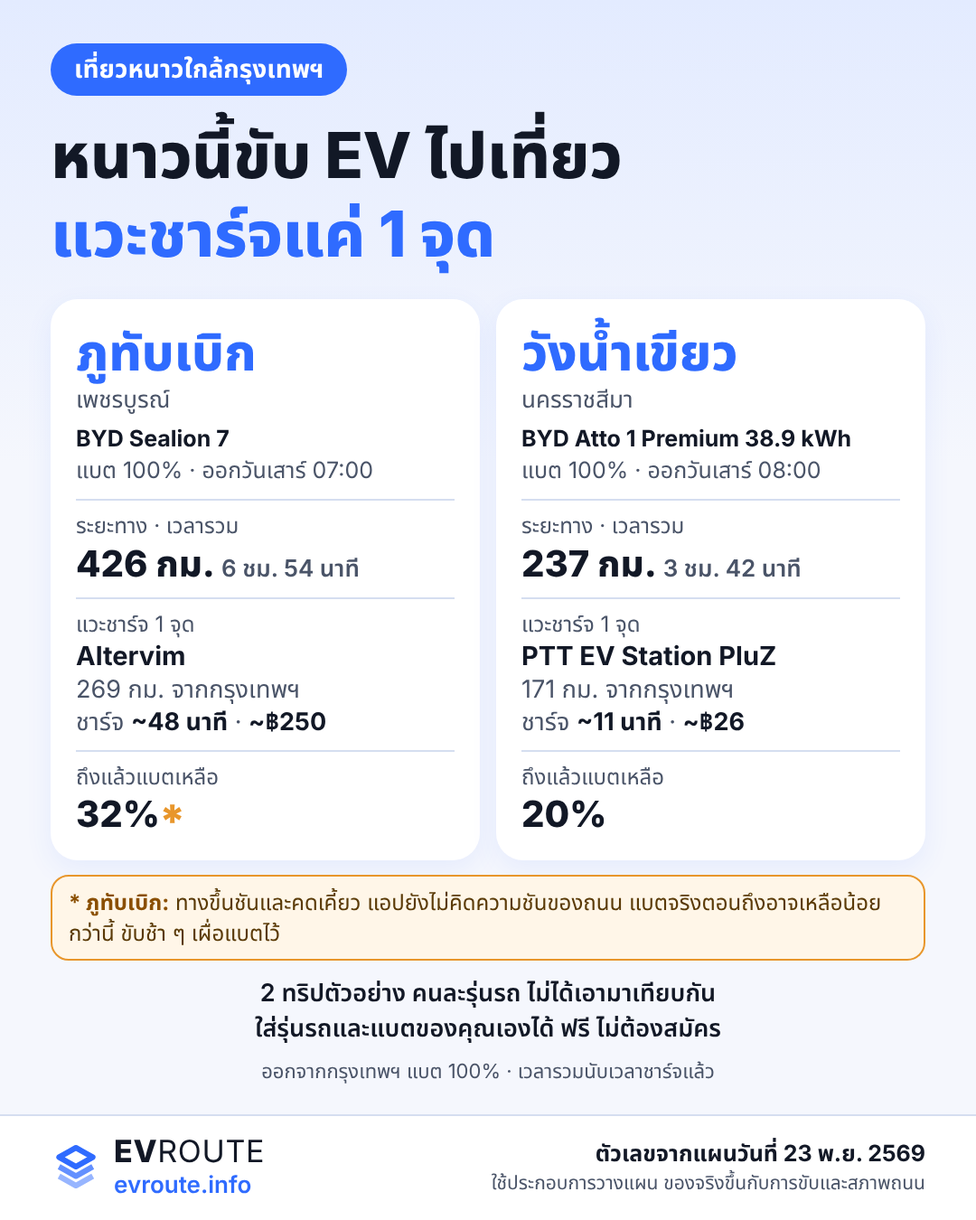
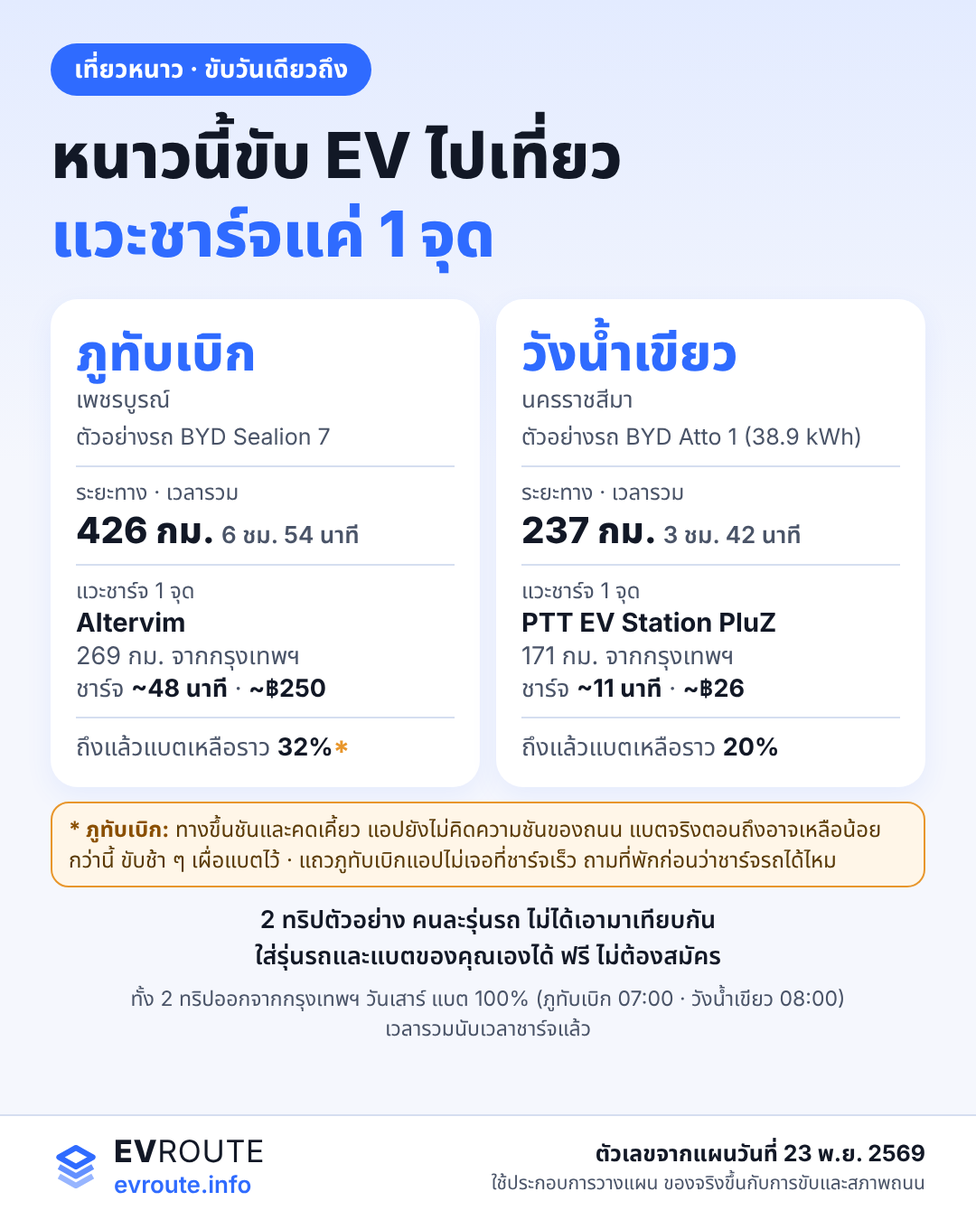
Long-weekend campaign: images fixed after fact-check (G1, G2, G2-square); A1-cold wording matches
Claude-Session: https://claude.ai/code/session_01LGo3dKAudiWU9QkRQhtUip

Changed region(s): [[0.0611, 0.3422, 0.9472, 0.9022], [0.1833, 0.0311, 0.3972, 0.0933], [0.1222, 0.8089, 0.1528, 0.84]]

diff --git a/marketing/2026-12-longweekend/images/src/G2-cold-pair.html b/marketing/2026-12-longweekend/images/src/G2-cold-pair.html
@@ -1,31 +1,37 @@
 <!doctype html><html lang="th"><head><meta charset="utf-8"><title>G2 · R2 ภูทับเบิก + R3 วังน้ำเขียว</title>
-<link rel="stylesheet" href="base.css"><script src="base.js" defer></script></head><body>
-<!-- ตัวเลขทั้งหมดจาก routes.md · R2 (14:59) R3 (15:00) วางแผน 23 พ.ย. 2569 · ห้ามทำให้ดูเหมือนเทียบรถ 2 คัน · R3 ห้ามพูดว่าปลายทางมี/ไม่มีที่ชาร์จเร็ว -->
+<link rel="stylesheet" href="base.css">
+<style>/* แก้ตาม check.md แถว 24: ปลายทางเป็นตัวเด่น · ชื่อรถเป็นบรรทัดสีเทา "ตัวอย่างรถ …" · แบตตอนถึงขนาดเท่าแถวชาร์จ */
+.trip .car{font-size:25px;line-height:1.4;color:var(--muted);margin-top:8px;white-space:nowrap}
+.trip .car b{color:var(--muted);font-weight:400}
+.trip .sm.bat{padding-top:2px}
+</style><script src="base.js" defer></script></head><body>
+<!-- ตัวเลขทั้งหมดจาก routes.md · R2 (14:59) R3 (15:00) วางแผน 23 พ.ย. 2569 · ห้ามทำให้ดูเหมือนเทียบรถ 2 คัน · R3 ห้ามพูดว่าปลายทางมี/ไม่มีที่ชาร์จเร็ว
+     ภาพนี้ใช้กับโพสต์เพจ P2 (ไม่ใช่โฆษณา) จึงเขียนชื่อเครือข่ายตามที่แอปแสดงได้ (check.md คำตัดสินข้อ 1) · ภาพโฆษณาใช้ G2-cold-pair-square ที่ไม่มีชื่อเครือข่าย -->
 <div class="canvas">
-  <div class="pill">เที่ยวหนาวใกล้กรุงเทพฯ</div>
+  <div class="pill">เที่ยวหนาว · ขับวันเดียวถึง</div>
   <h1>หนาวนี้ขับ EV ไปเที่ยว<br><span class="accent">แวะชาร์จแค่ 1 จุด</span></h1>
   <div class="pair" style="margin-top:28px">
     <div class="trip">
       <div class="dest">ภูทับเบิก</div>
       <div class="prov">เพชรบูรณ์</div>
-      <div class="car"><b>BYD Sealion 7</b><br>แบต 100% · ออกวันเสาร์ 07:00</div>
+      <div class="car">ตัวอย่างรถ BYD Sealion 7</div>
       <div class="row"><div class="k">ระยะทาง · เวลารวม</div><div class="v">426 กม. <small>6 ชม. 54 นาที</small></div></div>
       <div class="row"><div class="k">แวะชาร์จ 1 จุด</div><div class="st">Altervim</div><div class="sm">269 กม. จากกรุงเทพฯ</div><div class="sm">ชาร์จ <b>~48 นาที</b> · <b>~฿250</b></div></div>
-      <div class="row"><div class="k">ถึงแล้วแบตเหลือ</div><div class="v">32%<span style="color:var(--orange)">*</span></div></div>
+      <div class="row"><div class="sm bat">ถึงแล้วแบตเหลือราว <b>32%</b><b style="color:var(--orange)">*</b></div></div>
     </div>
     <div class="trip">
       <div class="dest">วังน้ำเขียว</div>
       <div class="prov">นครราชสีมา</div>
-      <div class="car"><b class="nw">BYD Atto 1 Premium 38.9 kWh</b><br>แบต 100% · ออกวันเสาร์ 08:00</div>
+      <div class="car">ตัวอย่างรถ BYD Atto 1 (38.9 kWh)</div>
       <div class="row"><div class="k">ระยะทาง · เวลารวม</div><div class="v">237 กม. <small>3 ชม. 42 นาที</small></div></div>
       <div class="row"><div class="k">แวะชาร์จ 1 จุด</div><div class="st">PTT EV Station PluZ</div><div class="sm">171 กม. จากกรุงเทพฯ</div><div class="sm">ชาร์จ <b>~11 นาที</b> · <b>~฿26</b></div></div>
-      <div class="row"><div class="k">ถึงแล้วแบตเหลือ</div><div class="v">20%</div></div>
+      <div class="row"><div class="sm bat">ถึงแล้วแบตเหลือราว <b>20%</b></div></div>
     </div>
   </div>
 
-  <div class="warn" style="margin-top:16px"><b>* ภูทับเบิก:</b> ทางขึ้นชันและคดเคี้ยว แอปยังไม่คิดความชันของถนน แบตจริงตอนถึงอาจเหลือน้อยกว่านี้ ขับช้า ๆ เผื่อแบตไว้</div>
+  <div class="warn" style="margin-top:16px"><b>* ภูทับเบิก:</b> ทางขึ้นชันและคดเคี้ยว แอปยังไม่คิดความชันของถนน แบตจริงตอนถึงอาจเหลือน้อยกว่านี้ ขับช้า ๆ เผื่อแบตไว้ · แถวภูทับเบิกแอปไม่เจอที่ชาร์จเร็ว ถามที่พักก่อนว่าชาร์จรถได้ไหม</div>
   <p class="note">2 ทริปตัวอย่าง คนละรุ่นรถ ไม่ได้เอามาเทียบกัน<br>ใส่รุ่นรถและแบตของคุณเองได้ ฟรี ไม่ต้องสมัคร</p>
-  <p class="fine" style="text-align:center">ออกจากกรุงเทพฯ แบต 100% · เวลารวมนับเวลาชาร์จแล้ว</p>
+  <p class="fine" style="text-align:center;font-size:23px">ทั้ง 2 ทริปออกจากกรุงเทพฯ วันเสาร์ แบต 100% <span class="nw">(ภูทับเบิก 07:00 · วังน้ำเขียว 08:00)</span><br>เวลารวมนับเวลาชาร์จแล้ว</p>
 
   <footer class="foot">
     <div class="brand">

diff --git a/marketing/2026-12-longweekend/images/src/G2-cold-pair-square.html b/marketing/2026-12-longweekend/images/src/G2-cold-pair-square.html
@@ -2,29 +2,33 @@
 <link rel="stylesheet" href="base.css">
 <style>/* 1080x1080: tighter */
 .sq .trip{padding:18px 28px 18px}.sq .trip .dest{font-size:50px}.sq .trip .row{padding:9px 0}.sq .pair{margin-top:18px}
+/* แก้ตาม check.md แถว 25: ปลายทางเป็นตัวเด่น · ชื่อรถเป็นบรรทัดสีเทา "ตัวอย่างรถ …" · แบตตอนถึงขนาดเท่าแถวชาร์จ */
+.sq .trip .car{font-size:25px;line-height:1.4;color:var(--muted);margin-top:4px;padding-bottom:12px;white-space:nowrap}
 </style><script src="base.js" defer></script></head><body>
-<!-- ตัวเลขทั้งหมดจาก routes.md · R2 R3 วางแผน 23 พ.ย. 2569 · ใช้กับ A1-cold (fb-ads-dec-cold) -->
+<!-- ตัวเลขทั้งหมดจาก routes.md · R2 R3 วางแผน 23 พ.ย. 2569 · ใช้กับ A1-cold (fb-ads-dec-cold)
+     ภาพโฆษณา: ห้ามมีชื่อเครือข่าย (check.md คำตัดสินข้อ 1 · plan.md คำตัดสินหลังด่านตรวจรอบ 1 ข้อ 3) ใช้ "จุดที่ N · กม. X" แทน จนกว่า PEA VOLTA และ OR จะตอบ -->
 <div class="canvas sq">
-  <div class="pill">เที่ยวหนาวใกล้กรุงเทพฯ · 2 ทริปตัวอย่าง</div>
+  <div class="pill">เที่ยวหนาว · ขับวันเดียวถึง · 2 ทริปตัวอย่าง</div>
   <h1 style="font-size:60px;margin-top:16px">หนาวนี้ขับ EV ไปเที่ยว<br><span class="accent">แวะชาร์จแค่ 1 จุด</span></h1>
   <div class="pair">
     <div class="trip">
       <div class="dest">ภูทับเบิก</div>
-      <div class="car"><b>BYD Sealion 7</b><br>แบต 100% · ออกวันเสาร์ 07:00</div>
+      <div class="car">ตัวอย่างรถ BYD Sealion 7</div>
       <div class="row"><div class="k">ระยะทาง · เวลารวม</div><div class="v">426 กม. <small>6 ชม. 54 นาที</small></div></div>
-      <div class="row"><div class="k">แวะชาร์จ 1 จุด</div><div class="st">Altervim</div><div class="sm">269 กม. จากกรุงเทพฯ</div><div class="sm">ชาร์จ <b>~48 นาที</b> · <b>~฿250</b></div></div>
-      <div class="row"><div class="k">ถึงแล้วแบตเหลือ</div><div class="v">32%<span style="color:var(--orange)">*</span></div></div>
+      <div class="row"><div class="k">แวะชาร์จ 1 จุด</div><div class="st">จุดที่ 1 · กม. 269</div><div class="sm">นับจากกรุงเทพฯ</div><div class="sm">ชาร์จ <b>~48 นาที</b> · <b>~฿250</b></div></div>
+      <div class="row"><div class="sm">ถึงแล้วแบตเหลือราว <b>32%</b><b style="color:var(--orange)">*</b></div></div>
     </div>
     <div class="trip">
       <div class="dest">วังน้ำเขียว</div>
-      <div class="car"><b class="nw">BYD Atto 1 Premium 38.9 kWh</b><br>แบต 100% · ออกวันเสาร์ 08:00</div>
+      <div class="car">ตัวอย่างรถ BYD Atto 1 (38.9 kWh)</div>
       <div class="row"><div class="k">ระยะทาง · เวลารวม</div><div class="v">237 กม. <small>3 ชม. 42 นาที</small></div></div>
-      <div class="row"><div class="k">แวะชาร์จ 1 จุด</div><div class="st">PTT EV Station PluZ</div><div class="sm">171 กม. จากกรุงเทพฯ</div><div class="sm">ชาร์จ <b>~11 นาที</b> · <b>~฿26</b></div></div>
-      <div class="row"><div class="k">ถึงแล้วแบตเหลือ</div><div class="v">20%</div></div>
+      <div class="row"><div class="k">แวะชาร์จ 1 จุด</div><div class="st">จุดที่ 1 · กม. 171</div><div class="sm">นับจากกรุงเทพฯ</div><div class="sm">ชาร์จ <b>~11 นาที</b> · <b>~฿26</b></div></div>
+      <div class="row"><div class="sm">ถึงแล้วแบตเหลือราว <b>20%</b></div></div>
     </div>
   </div>
 
-  <div class="warn" style="margin-top:14px;font-size:23px"><b>* ภูทับเบิก:</b> ทางขึ้นชัน แอปยังไม่คิดความชัน แบตจริงอาจเหลือน้อยกว่านี้ · 2 ทริปตัวอย่าง คนละรุ่นรถ ไม่ได้เทียบกัน</div>
+  <div class="warn" style="margin-top:14px;font-size:23px"><b>* ภูทับเบิก:</b> ทางขึ้นชัน แอปยังไม่คิดความชัน แบตจริงอาจเหลือน้อยกว่านี้<br>แถวภูทับเบิกแอปไม่เจอที่ชาร์จเร็ว ถามที่พักก่อน</div>
+  <p class="fine" style="text-align:center;margin-top:8px">ออกจากกรุงเทพฯ วันเสาร์ แบต 100% <span class="nw">(ภูทับเบิก 07:00 · วังน้ำเขียว 08:00)</span> · คนละรุ่นรถ ไม่ได้เทียบกัน</p>
 
   <footer class="foot">
     <div class="brand">

diff --git a/marketing/2026-12-longweekend/images/src/G1-nan.html b/marketing/2026-12-longweekend/images/src/G1-nan.html
@@ -1,6 +1,11 @@
 <!doctype html><html lang="th"><head><meta charset="utf-8"><title>G1 · R1 น่าน แวะชาร์จ 4 จุด (P1)</title>
-<link rel="stylesheet" href="base.css"><script src="base.js" defer></script></head><body>
-<!-- ตัวเลขทั้งหมดจาก routes.md · R1 · วางแผน 23 พ.ย. 2569 14:58 · R1 ไม่มีจุดมื้อกลางวัน (มีแค่ป้ายมื้อเช้าที่จุด 1) -->
+<link rel="stylesheet" href="base.css">
+<style>/* distance-from-Bangkok column, right side of each stop */
+.route .kmr{float:right;margin-left:16px;font-weight:700;color:var(--ink);white-space:nowrap}
+.route .kmr.h{font-size:25px;font-weight:600;color:var(--muted);padding-top:3px}
+</style><script src="base.js" defer></script></head><body>
+<!-- ตัวเลขทั้งหมดจาก routes.md · R1 · วางแผน 23 พ.ย. 2569 14:58 · R1 ไม่มีจุดมื้อกลางวัน (มีแค่ป้ายมื้อเช้าที่จุด 1)
+     แก้ตาม check.md แถว 22: ระยะจากกรุงเทพฯ ย้ายไปคอลัมน์ขวา (146 · 261 · 387 · 553 · 668) "(ทล.11 กม.228)" เป็นส่วนหนึ่งของชื่อสถานีตามที่แอปแสดง ไม่ใช่ระยะ -->
 <div class="canvas">
   <div class="pill">เที่ยวหนาว · ต้นเดือนธันวา</div>
   <h1 style="font-size:66px">ขับ EV ไปน่าน <span class="accent">แวะชาร์จ 4 จุด</span></h1>
@@ -13,12 +18,12 @@
 
   <div class="card" style="margin-top:18px">
     <ol class="route">
-      <li class="start"><div class="dot">A</div><div><div class="nm">กรุงเทพฯ <span class="km">· MG4 Electric (51 kWh)</span></div><div class="meta">ออก<b>วันเสาร์ 06:00</b> · แบต <b>100%</b></div></div></li>
-      <li><div class="dot">1</div><div><div class="nm">PTT EV Station PluZ <span class="km">(146 กม. จากกรุงเทพฯ)</span></div><div class="meta">ชาร์จ <b>~19 นาที</b> · <b>~฿65</b> <span class="badge soft">🍜 มื้อเช้า</span></div></div></li>
-      <li><div class="dot">2</div><div><div class="nm">EleXA <span class="km">(261 กม. จากกรุงเทพฯ)</span></div><div class="meta">ชาร์จ <b>~37 นาที</b> · <b>~฿194</b></div></div></li>
-      <li><div class="dot">3</div><div><div class="nm">PEA VOLTA บางจาก เมืองพิษณุโลก <span class="nw">(ทล.11 กม.228)</span></div><div class="meta">ชาร์จ <b>~50 นาที</b> · <b>~฿193</b></div></div></li>
-      <li><div class="dot">4</div><div><div class="nm">Altervim <span class="km">(553 กม. จากกรุงเทพฯ)</span></div><div class="meta">ชาร์จ <b>~32 นาที</b> · <b>~฿169</b> · ห่างเส้นทาง 1.8 กม.</div></div></li>
-      <li class="end"><div class="dot">B</div><div><div class="nm">ข่วงเมืองน่าน</div><div class="meta">ถึง <b>16:51</b> · แบตเหลือ <b class="g">21%</b></div></div></li>
+      <li class="start"><div class="dot">A</div><div><div class="nm">กรุงเทพฯ <span class="km">· MG4 Electric (51 kWh)</span></div><div class="meta"><span class="kmr h">ระยะจากกรุงเทพฯ</span>ออก<b>วันเสาร์ 06:00</b> · แบต <b>100%</b></div></div></li>
+      <li><div class="dot">1</div><div><div class="nm">PTT EV Station PluZ</div><div class="meta"><span class="kmr">146 กม.</span>ชาร์จ <b>~19 นาที</b> · <b>~฿65</b> <span class="badge soft">🍜 มื้อเช้า</span></div></div></li>
+      <li><div class="dot">2</div><div><div class="nm">EleXA</div><div class="meta"><span class="kmr">261 กม.</span>ชาร์จ <b>~37 นาที</b> · <b>~฿194</b></div></div></li>
+      <li><div class="dot">3</div><div><div class="nm">PEA VOLTA บางจาก เมืองพิษณุโลก <span class="nw">(ทล.11 กม.228)</span></div><div class="meta"><span class="kmr">387 กม.</span>ชาร์จ <b>~50 นาที</b> · <b>~฿193</b></div></div></li>
+      <li><div class="dot">4</div><div><div class="nm">Altervim</div><div class="meta"><span class="kmr">553 กม.</span>ชาร์จ <b>~32 นาที</b> · <b>~฿169</b> · ห่างเส้นทาง 1.8 กม.</div></div></li>
+      <li class="end"><div class="dot">B</div><div><div class="nm">ข่วงเมืองน่าน</div><div class="meta"><span class="kmr">668 กม.</span>ถึง <b>16:51</b> · แบตเหลือ <b class="g">21%</b></div></div></li>
     </ol>
   </div>
 

diff --git a/marketing/2026-12-longweekend/scripts.md b/marketing/2026-12-longweekend/scripts.md
@@ -9,11 +9,11 @@
 
 | คลิป | เรื่อง | เส้นทาง | ความยาว | โพสต์ (ตาม plan.md) | ลิงก์ |
 |---|---|---|---|---|---|
-| **T1** | "ไม่อดตาย" กด อยากแวะ แล้วได้จุดชาร์จตรงมื้อเที่ยง | R4 กรุงเทพฯ → อุบลฯ (ขาไป) | ~27 วิ | พ. 2 ธ.ค. 19:30 TikTok (+Reels) | bio `?ref=tiktok-dec` · IG bio `?ref=ig-dec` |
+| **T1** | "ไม่อดตาย" กด อยากแวะ แล้วได้จุดชาร์จตรงมื้อเที่ยง | R4 กรุงเทพฯ → อุบลฯ (ขาไป) | ~27 วิ | พ. 2 ธ.ค. 19:30 TikTok (+Reels ไฟล์แยก ไม่มีเพลง TikTok ไม่มีลายน้ำ) | bio `?ref=tiktok-dec` · IG bio `?ref=ig-dec` |
 | **T2** | ช่วงงานรถปลายปี ลองขับไปเที่ยวหนาวในแอปก่อน | R2 ภูทับเบิก + R3 วังน้ำเขียว | ~24 วิ | พฤ. 3 ธ.ค. 12:00 TikTok | bio `?ref=tiktok-dec` |
 | **T3 (ก)** | กลับบ้านอุบลฯ ขาไปแวะไหน ขากลับแวะไหน + บันทึกแผน | R4 + R5 | ~30 วิ | ศ. 4 ธ.ค. 12:00 TikTok | bio `?ref=tiktok-dec` |
-| **T3 (ข)** | ตัวเดียวกัน จบด้วย "กดปุ่มด้านล่าง" | R4 + R5 | ~30 วิ | โฆษณา Meta A1-home เริ่ม 5 ธ.ค. 06:00 (ถ้าผ่านประตู) | `https://evroute.info/?ref=fb-ads-dec-home` |
-| **A2** | TikTok Promote ใช้คลิปเดิม ไม่ต้องทำคลิปใหม่ | คลิปที่คนดูมากสุดใน T1–T3 | – | ส. 5 ธ.ค. 08:00 (ถ้าผ่านประตู) | `https://evroute.info/?ref=tt-ads-dec` |
+| **T3 (ข)** | ตัวเดียวกัน แต่ไม่มีช็อตแผนที่ จบด้วย "กดปุ่มด้านล่าง" · ไฟล์แยก ไม่มีเพลง TikTok ไม่มีลายน้ำ | R4 + R5 | ~30 วิ | โฆษณา Meta A1-home เริ่ม 5 ธ.ค. 06:00 (ถ้าผ่านประตู) | `https://evroute.info/?ref=fb-ads-dec-home` |
+| **A2** | TikTok Promote ใช้คลิปเดิม ไม่ต้องทำคลิปใหม่ | คลิปที่คนดูมากสุดใน T1–T3 ที่ผ่านเช็ก (ไม่เห็นชื่อเครือข่ายสักเฟรม · หน้าจอ Promote ขึ้นว่าดันได้) | – | ส. 5 ธ.ค. 08:00 (ถ้าผ่านประตู) | `https://evroute.info/?ref=tt-ads-dec` |
 
 **เปลี่ยนจากบรีฟเดิม:** T1 เดิมเป็น "ไปน่าน" (R1) แต่ R1 ไม่มีจุดแวะตรงมื้อเที่ยง (มีแค่ "🍜 มื้อเช้า") ตาม "บันทึกหลังวางเส้นทางรอบ 1" ใน plan.md ชิ้นที่ชูมื้อเที่ยงใช้ **R4** แทน T1 จึงเป็นอุบลฯ ขาไป ส่วน T3 เน้นไป-กลับและการบันทึกแผน (ไม่ซ้ำมุมกัน) **ไม่มีคลิปน่านในชุดนี้**
 
@@ -29,6 +29,8 @@
 - อัด **จ. 30 พ.ย.** หลัง route-researcher วางแผนรอบ 2 และอัปเดต `routes.md` แล้ว (ตัวเลขบนจอแอปจะตรงกับไฟล์)
 - ก่อนอัดแต่ละช็อต เทียบตัวเลขบนจอกับตาราง "ตัวเลขที่ใช้" ของคลิปนั้น ถ้าไม่ตรง หยุดก่อน แจ้งหัวหน้าทีม อย่าอัดเสียงพากย์ตัวเลขเดิมทับภาพที่ตัวเลขต่าง
 - เปิดแผนจากลิงก์ **"ไม่ใส่ ref"** ใน `routes.md` หัวข้อ "ลิงก์แผน" เท่านั้น (ลิงก์มีรุ่นรถ แบต เวลาออก และ "อยากแวะ" ครบ) ถ้าแก้ค่าในฟอร์มแล้วกดวางแผนเอง ตัวเลขอาจไม่ตรง ให้ตัดไปใช้ผลจากลิงก์
+- **วันที่บนจอและในแคปชัน** ใช้วันที่วางแผนของรอบที่ตัวเลขมาจาก (ตาม `routes.md`) · อัด 30 พ.ย. หลังวางแผนรอบ 2 ให้เปลี่ยนเป็น "30 พ.ย. 2569" ทั้งชุด ทั้งข้อความมุมบนและแคปชัน (คำตัดสินข้อ 6 ท้าย plan.md) · ตอนนี้สคริปต์ยังเขียน 23 พ.ย. 2569 ตาม routes.md รอบ 1
+- **ภาพอ้างอิงหน้าจอ:** `marketing/2026-12-longweekend/ref/` (R1.png – R6b.png เป็นหน้าจอคอม หน้าจอมือถือเรียงเป็นแถวเดียว แต่ชื่อปุ่มและการ์ดเหมือนกัน) ดูก่อนอัดว่าชื่อเครือข่าย ปุ่ม "เปิดแอป …" ข้อความจอง และเครดิต Google อยู่ตรงไหน
 
 ### 2. ตั้งเครื่องก่อนอัด (ทำตามลำดับ)
 1. **ปิดการส่งสถิติก่อน:** เปิด `https://evroute.info` (ไม่ใส่ ref) → เลื่อนลงล่างสุด → กด **"ไม่ร่วมส่งสถิติ"** → ปุ่มต้องเปลี่ยนเป็น "กลับมาร่วมส่งสถิติ" (= nostats เปิดแล้ว) ทำก่อนเปิดลิงก์แผนใด ๆ
@@ -45,19 +47,52 @@
 - **ห้ามพูดหรือเขียนเรื่องน้ำท่วม** ในเสียงพากย์ ข้อความบนจอ แคปชัน แฮชแท็ก และห้ามมี 🌊
 - **รูปรถในการ์ด "รถของคุณ"** (บนฟอร์ม) เห็นโลโก้แบรนด์ และรูปของ BYD M6 ในแอปเห็นป้ายทะเบียน ให้ครอปออกหรือเบลอทุกครั้งที่การ์ดรถอยู่ในเฟรม
 - **ห้ามกดปุ่มที่พาออกนอกแอปเรา:** "เปิดแอป …" (PEA VOLTA / EV Station PluZ / EleXA) · "นำทาง" · "เปิดเส้นทางทั้งหมดใน Google Maps" · "ร้านอาหารแถวนี้ (Wongnai)" · "ข้อมูลจาก Google Maps" (ห้ามถ่ายแอปของผู้ให้บริการอื่น)
-- ไม่ซูมและไม่พูดถึงข้อความสีส้ม "📅 จองล่วงหน้าได้ในแอป …" (การจองทำในแอปผู้ให้บริการ ห้ามให้เข้าใจว่าจองในแอปเรา)
 - ไม่ซูมตัวเลข "สถานีชาร์จ ___ แห่ง" บนหัวแอป (ไม่อยู่ใน routes.md)
-- ปล่อยให้เห็นได้: ป้าย "ⓘ ยังไม่ยืนยันหัวชาร์จ" · ชื่อสถานีตามที่แอปแสดง (เป็นตัวหนังสือ ไม่ใช่โลโก้) · เครดิต Google ที่มุมแผนที่ (เป็นเครดิตแผนที่ ไม่ต้องลบ แต่ไม่ซูมไปที่มัน)
+- ปล่อยให้เห็นได้: ป้าย "ⓘ ยังไม่ยืนยันหัวชาร์จ" (เป็นความจริง ไม่ต้องครอป)
 
-### 4. ข้อความบนจอและเสียง
+### 4. ปิดชื่อเครือข่าย ปุ่ม "เปิดแอป …" และข้อความจอง (ทุกคลิป ทำตอนตัดต่อ)
+คำตัดสินข้อ 3 ท้าย plan.md: ปิด **ทุกคลิป** ตั้งแต่ตอนตัดต่อ คลิปไหนก็เอาไปดันโฆษณา (A2) ได้ · ชื่อที่แอปแสดงเป็นตัวหนังสือก็ต้องปิด ไม่ใช่แค่โลโก้
+- **ต้องปิดทุกเฟรมที่เห็น:**
+  1. ชื่อสถานี บรรทัดแรกของการ์ดจุดแวะ (เช่น "EV Station Pluz" · "สถานีชาร์จ EleXA" · "Altervim" · "PTT EV Station PluZ" · "PEA VOLTA บางจาก ขุขันธ์")
+  2. บรรทัด "กม. … · ติดเส้นทาง · <ชื่อเครือข่าย>" ใต้ชื่อ (ชื่อเครือข่ายอยู่ท้ายบรรทัดนี้ซ้ำอีกที ดู `ref/R4.png`)
+  3. ข้อความสีส้ม "📅 จองล่วงหน้าได้ในแอป …" / "📅 จองได้ในแอป …" ในการ์ดจุดแวะ (การจองทำในแอปผู้ให้บริการ ห้ามให้เข้าใจว่าจองในแอปเรา)
+  4. การ์ดสีส้ม "📅 มีจุดชาร์จที่จองล่วงหน้าได้ใกล้วันเดินทางเท่านั้น · จองในแอป EV Station PluZ: PluZ Happiness ได้ตั้งแต่ …" ที่อยู่ระหว่างแถบ "✓ แวะได้" กับหัวข้อ "แผนการเดินทาง · ชาร์จ 3 จุด" (ติดเฟรมในช็อตที่ถ่ายการ์ดสรุปหรือหัวข้อนี้)
+  5. ปุ่ม "เปิดแอป …" ท้ายการ์ดจุดแวะ (ข้างปุ่ม "นำทาง")
+- **วิธีปิด:**
+  - ข้อ 1–2: วางป้ายตัวหนังสือ 1 ป้ายทับทั้งสองบรรทัด เขียน **"จุดที่ N · กม. X"** สไตล์เดียวกับข้อความบนจอ (`#121826` บนพื้นขาว หรือขาวบนพื้น `#2f6bff`) **ทึบ 100%** ห้ามโปร่งจนเห็นชื่อด้านล่าง · ป้าย "🍜 มื้อกลางวัน" ของแอปอยู่บรรทัดเดียวกับชื่อ จะโดนปิดไปด้วย จุดที่มีป้ายนี้ให้ต่อท้ายในป้ายเราว่า "· 🍜 มื้อกลางวัน" (คำเดียวกับที่แอปแสดง)
+  - ข้อ 3–5: ครอปให้อยู่นอกเฟรมก่อน ถ้าครอปไม่ได้ ปิดด้วยแถบทึบสีเดียวกับพื้นการ์ด (ไม่ต้องมีข้อความ)
+  - ช่วงที่มีป้ายหรือแถบปิด **ห้ามเลื่อนจอ** ให้ตัดไปภาพถัดไปแทน (ถ้าเลื่อน การ์ดจุดอื่นจะผ่านเฟรมพร้อมชื่อ) · ถ้าซูมตอนตัดต่อ ให้ซูมภาพกับป้ายไปพร้อมกัน (รวมเป็นชั้นเดียว)
+
+**ป้ายที่ใช้ (ตัวเลขจาก routes.md)**
+
+| เส้นทาง | จุดที่ 1 | จุดที่ 2 | จุดที่ 3 |
+|---|---|---|---|
+| R4 ขาไป (T1 · T3) | จุดที่ 1 · กม. 278 | จุดที่ 2 · กม. 366 · 🍜 มื้อกลางวัน | จุดที่ 3 · กม. 543 |
+| R5 ขากลับ (T3) | จุดที่ 1 · กม. 110 | จุดที่ 2 · กม. 297 · 🍜 มื้อกลางวัน | จุดที่ 3 · กม. 459 |
+| R2 ภูทับเบิก (T2) | จุดที่ 1 · กม. 269 | – | – |
+| R3 วังน้ำเขียว (T2) | จุดที่ 1 · กม. 171 | – | – |
+
+- **ไม่ต้องปิด:** ป้าย "ⓘ ยังไม่ยืนยันหัวชาร์จ" · ลิงก์ "ข้อมูลจาก Google Maps" ในการ์ด (เป็นเครดิตที่มาของข้อมูลร้าน อย่าวางอะไรทับ แต่ห้ามกด)
+- **ยังไม่มีคำตัดสิน:** ชื่อร้านในแถวร้าน (เช่น คาเฟ่ อเมซอน · Punthai Coffee · Max Mart · 7-Eleven) บางชื่อน่าจะเป็นแบรนด์ในเครือ OR / PTT ฝาก fact-checker ตัดสินว่าต้องปิดในคลิปที่ดันโฆษณาไหม · ระหว่างนี้ไม่ซูมจนชื่อร้านเป็นตัวเด่น และในโฆษณา Meta (T3 ข) ครอปแถวร้านออก
+- **เช็กก่อนส่งออก:** ดูคลิปจนจบ หยุดดูทุกช็อตที่มีการ์ดจุดแวะหรือการ์ดสรุป ต้องไม่เห็น PEA VOLTA · PluZ / Pluz · PTT · EleXA · Altervim · "เปิดแอป" · "จอง" แม้แต่เฟรมเดียว
+
+### 5. แผนที่และเครดิต Google
+- โลโก้ **"Google" มุมซ้ายล่าง** และ **"ข้อมูลแผนที่ ©2026 Google" มุมขวาล่าง** ของแผนที่ **ต้องอยู่ในเฟรมและอ่านออกทุกครั้งที่เห็นแผนที่** ห้ามครอป เบลอ ซูมจนหลุดเฟรม หรือวางข้อความ ป้าย สติกเกอร์ทับ
+- ซูมตอนตัดต่อได้เฉพาะแบบที่ทั้งสองมุมล่างยังอยู่ในเฟรม ถ้าอยากเน้นหมุด ใช้ภาพแผนที่ทั้งกรอบแทน
+- ปุ่มของ TikTok / Reels (แถบขวาและแถบล่าง) ทับมุมล่างของแผนที่ได้ วางแผนที่ไว้ช่วงบนของจอ (ใต้แถบบน 12%) ให้มุมล่างทั้งสองอยู่สูงกว่าแถบปุ่มด้านขวา ถ้าไม่พ้น ให้ย่อทั้งกรอบแผนที่ (ห้ามครอป) แล้วเช็กในหน้าตัวอย่างก่อนโพสต์
+- ช็อตที่ไม่ได้ตั้งใจถ่ายแผนที่: ไม่เลื่อนผ่านแผนที่ ให้ตัดข้าม (ตอนเลื่อนลง แผนที่จะโผล่ครึ่งบนก่อนโดยที่เครดิตยังอยู่นอกจอ)
+- **โฆษณา Meta (T3 ข): ไม่มีแผนที่สักเฟรม** (คำตัดสินข้อ 5 ท้าย plan.md) ถ้าอยากใส่กลับ ต้องให้ทีมพัฒนาตรวจข้อกำหนดของ Google Maps Platform เรื่องใช้ภาพแผนที่ในโฆษณาก่อน
+
+### 6. ข้อความบนจอ เสียง เพลง และไฟล์ส่งออก
 - ข้อความบนจอ **ไม่เกิน 8 คำต่อการ์ด** วางช่วงกลางจอ หลบขอบล่างราว 20% และขอบขวาราว 15% (ปุ่มของ TikTok/Reels บัง) · สีตัวหนังสือ `#121826` บนพื้นขาว หรือขาวบนพื้น `#2f6bff` · ตัวเลขบนการ์ดต้องตรงกับที่จอแอปแสดงในช็อตนั้น
-- **มุมบนซ้ายตัวเล็ก ตลอดช่วงที่มีตัวเลข:** "ตัวเลขจากแผนวันที่ 23 พ.ย. 2569"
+- **ข้อความวันที่ ตัวเล็ก ชิดซ้าย ต่ำกว่าขอบบนราว 12%** (ขอบบนสุดมีปุ่ม LIVE และแท็บด้านบนของ TikTok บัง) ตลอดช่วงที่มีตัวเลข: "ตัวเลขจากแผนวันที่ 23 พ.ย. 2569" (เปลี่ยนวันที่ตามข้อ 1)
 - การ์ดปิด: โลโก้ EVROUTE (ชั้นซ้อน 3 ชั้น + **EV**ROUTE จาก `index.html` คลาส `brand__mark`) + ข้อความตามสคริปต์
-- เสียงพากย์: น้ำเสียง "เพื่อนร่วมทาง" เป็นกันเอง ใจเย็น ไม่ขายแรง · เปิดคำบรรยายอัตโนมัติของ TikTok (และของ Meta สำหรับ T3 ข) แทนการฝังซับยาว ๆ
-- เพลง: ใช้เพลงจากคลังเพลงเชิงพาณิชย์ของ TikTok (Commercial Music Library) หรือไม่ใส่เพลง คลิปจะได้เอาไปทำ Promote (A2) และโฆษณาได้
-- ส่งออก 1080×1920 (9:16)
+- เสียงพากย์: น้ำเสียง "เพื่อนร่วมทาง" เป็นกันเอง ใจเย็น ไม่ขายแรง · เปิดคำบรรยายอัตโนมัติของ TikTok (และของ Meta สำหรับ Reels และ T3 ข) แทนการฝังซับยาว ๆ
+- **ไฟล์แม่:** ส่งออกจากแอปตัดต่อ 1080×1920 (9:16) มีแค่ภาพ ข้อความบนจอ และเสียงพากย์ **ไม่มีเพลง ไม่มีลายน้ำ** ทำคลิปละ 1 ไฟล์ (T3 ทำ 2 ไฟล์ ก และ ข เพราะการ์ดปิดและช็อต 0–3 ต่างกัน)
+- **เพลง TikTok (T1 · T2 · T3 ก):** อัปไฟล์แม่ แล้วจะใส่เพลงจากคลังเพลงเชิงพาณิชย์ของ TikTok (Commercial Music Library) ตอนโพสต์ หรือใช้เสียงพากย์ล้วนก็ได้ · คลิปจะดันด้วย Promote ได้ไหม ยังไม่มีใครตรวจกับเอกสารของ TikTok เจ้าของต้องดูในหน้าจอ Promote เอง (A2 ข้อ 3)
+- **เพลง Reels (T1) และโฆษณา Meta (T3 ข):** ใช้ไฟล์แม่ ห้ามมีเพลงจากคลังของ TikTok (คำตัดสินข้อ 4 ท้าย plan.md) และ **ห้ามดาวน์โหลดคลิปจาก TikTok มาลงต่อ** (จะติดลายน้ำ TikTok และเพลงมาด้วย) · ใช้เสียงพากย์ล้วน หรือใส่เพลงจากคลังเพลงของ Meta ตอนอัปโหลด
 
-### 5. ถ้าจะถ่ายภาพจริงเพิ่ม (ไม่บังคับ ทั้ง 3 คลิปใช้หน้าจอแอปล้วนได้)
+### 7. ถ้าจะถ่ายภาพจริงเพิ่ม (ไม่บังคับ ทั้ง 3 คลิปใช้หน้าจอแอปล้วนได้)
 - ห้ามถ่ายตอนขับ (ให้คนนั่งข้างถ่าย หรือจอดก่อน)
 - ห้ามเห็นทะเบียนรถ หน้าคนที่ไม่ได้ยินยอม ป้าย/โลโก้ปั๊มหรือสถานีชาร์จ โลโก้แบรนด์รถ
 - ห้ามถ่ายในงานรถ บูธ หรือป้ายงาน · ห้ามภาพน้ำขังหรือน้ำท่วม · ห้ามภาพหรือสัญลักษณ์ที่เกี่ยวกับสถาบัน
@@ -66,7 +101,7 @@
 
 ## T1 · "ไปอุบลฯ แวะชาร์จกี่ที่? กินข้าวตรงไหน?" (R4 ขาไป) · ~27 วิ
 
-**ช่องทาง:** TikTok พ. 2 ธ.ค. 19:30 (+ลง Reels ได้) · **มุม:** "ไม่อดตาย" กด อยากแวะ แล้วแอปเลือกจุดชาร์จตรงมื้อเที่ยงให้ · **เปิดแผน:** ลิงก์ R4 "ไม่ใส่ ref" ใน routes.md
+**ช่องทาง:** TikTok พ. 2 ธ.ค. 19:30 (+ลง Reels ได้ **ใช้ไฟล์แยก** ดู "ไฟล์ Reels" ด้านล่าง) · **มุม:** "ไม่อดตาย" กด อยากแวะ แล้วแอปเลือกจุดชาร์จตรงมื้อเที่ยงให้ · **เปิดแผน:** ลิงก์ R4 "ไม่ใส่ ref" ใน routes.md
 
 ### ตัวเลขที่ใช้ (routes.md · R4)
 
@@ -90,13 +125,18 @@
 | 0–3 | ฟอร์ม การ์ด "เส้นทาง" เห็น "กรุงเทพฯ" → "ทุ่งศรีเมือง อุบลราชธานี" (เปิดลิงก์ R4 แล้วกด "แก้ไข" ที่หัวผลแผนเพื่อกลับมาที่ฟอร์ม) ซูมช้า ๆ | ไปอุบลฯ แวะชาร์จกี่ที่? กินข้าวตรงไหน? | ขับ EV กลับบ้านอุบลฯ 636 กิโล ต้องแวะชาร์จกี่ที่ แล้วมื้อเที่ยงกินตรงไหนดี? |
 | 3–5 | การ์ดรถ "BYD M6" (**ครอป/เบลอรูปรถ**) + วงแบต "100%" | BYD M6 · แบต 100% · ออก 6 โมงเช้า | ใส่รุ่นรถ แบตที่มี เวลาออก |
 | 5–8 | แถว **"อยากแวะ"** ก่อนอัดให้กดปิดชิปไว้ก่อน แล้วตอนอัดกด **"🍜 กินข้าว"** กับ **"🚻 ห้องน้ำ"** ให้ติด (**ครอปให้เห็นแค่แถวนี้** สวิตช์ 🌊 อยู่ใต้แถวนี้) · ไม่ต้องโชว์การกดปุ่ม "วางแผนการเดินทาง" ตัดไปช็อตถัดไปเลย | กด อยากแวะ: 🍜 กินข้าว 🚻 ห้องน้ำ | แล้วกด "อยากแวะ" กินข้าว กับห้องน้ำ |
-| 8–12 | ผลแผน (จากลิงก์ R4): การ์ดสรุป 3 ช่อง (ชาร์จรวม · ค่าไฟโดยประมาณ · ถึงปลายทาง) + แถบ "✓ แวะได้: 🍜 กินข้าว 🚻 ห้องน้ำ · ใช้เวลาเพิ่ม ~1 นาที" + หัวข้อ "แผนการเดินทาง · ชาร์จ 3 จุด" | 636 กม. แวะชาร์จ 3 จุด | 636 กิโล แวะชาร์จ 3 จุด เลือกจุดที่มีข้าวกับห้องน้ำ ใช้เวลาเพิ่มแค่ราว 1 นาที |
-| 12–19 | เลื่อนลงไปจุดที่ 2 ซูมที่ป้าย **"🍜 มื้อกลางวัน"** · "กม. 366" · แถวร้านอาหาร/ห้องน้ำ (ไม่ซูมข้อความสีส้มเรื่องจอง ไม่กดปุ่ม "เปิดแอป…") | จุดที่ 2 ตรงมื้อเที่ยงพอดี 🍜 | จุดที่สอง กิโลเมตร 366 ตรงมื้อเที่ยงพอดี มีร้านอาหาร กาแฟ ห้องน้ำ ชาร์จราว 56 นาที กินข้าวเสร็จก็ไปต่อ |
-| 19–23 | การ์ดเส้นเวลาด้านบน "636 กม. · 10 ชม. 14 นาที · ถึง … 16:14" + ช่อง "ถึงปลายทาง 20%" + ช่อง "ค่าไฟโดยประมาณ ฿474" | ถึง 16:14 · แบตเหลือ 20% · (บรรทัดเล็ก) ทางไกล พักทุก 2 ชม. | ออกหกโมงเช้า ถึงบ่ายสี่โมงสิบสี่ ค่าชาร์จระหว่างทางราว 474 บาท ทางไกลแบบนี้ พักทุก 2 ชั่วโมงนะ |
+| 8–12 | ผลแผน (จากลิงก์ R4): การ์ดสรุป 3 ช่อง (ชาร์จรวม · ค่าไฟโดยประมาณ · ถึงปลายทาง) + แถบ "✓ แวะได้: 🍜 กินข้าว 🚻 ห้องน้ำ · ใช้เวลาเพิ่ม ~1 นาที" + หัวข้อ "แผนการเดินทาง · ชาร์จ 3 จุด" · **การ์ดสีส้มเรื่องจอง** ที่อยู่ระหว่างแถบ "แวะได้" กับหัวข้อนี้ ครอปออกหรือปิดด้วยแถบทึบ (วิธีถ่าย ข้อ 4) | 636 กม. แวะชาร์จ 3 จุด | 636 กิโล แวะชาร์จ 3 จุด เลือกจุดที่มีข้าวกับห้องน้ำ ใช้เวลาเพิ่มแค่ราว 1 นาที |
+| 12–19 | **ตัด** (ไม่เลื่อนผ่านจุดที่ 1) ไปการ์ดจุดที่ 2 · ปิดชื่อสถานีและบรรทัด กม. ด้วยป้าย **"จุดที่ 2 · กม. 366 · 🍜 มื้อกลางวัน"** (วิธีถ่าย ข้อ 4) · (12–15) ซูมที่ป้ายนี้ + แถว "~56 นาที" · (15–19) ครอปเฉพาะแถวร้านอาหาร/ห้องน้ำ · ข้อความสีส้มเรื่องจองและปุ่ม "เปิดแอป …" อยู่นอกเฟรมทั้งสองภาพ (ครอปไม่ได้ให้ปิดด้วยแถบทึบ) · ไม่กดอะไร | จุดที่ 2 ตรงมื้อเที่ยงพอดี 🍜 | จุดที่สอง กิโลเมตร 366 ตรงมื้อเที่ยงพอดี มีร้านอาหาร กาแฟ ห้องน้ำ ชาร์จราว 56 นาที กินข้าวเสร็จก็ไปต่อ |
+| 19–23 | การ์ดเส้นเวลาด้านบน "636 กม. · 10 ชม. 14 นาที · ถึง … 16:14" + ช่อง "ถึงปลายทาง 20%" + ช่อง "ค่าไฟโดยประมาณ ฿474" · ตัดมาที่การ์ดเหล่านี้ ไม่เลื่อนผ่านแผนที่ ถ้าแผนที่ติดเฟรมต้องเห็นเครดิต Google ทั้งสองมุม (วิธีถ่าย ข้อ 5) | ถึง 16:14 · แบตเหลือ 20% · (บรรทัดเล็ก) ทางไกล พักทุก 2 ชม. | ออกหกโมงเช้า ถึงบ่ายสี่โมงสิบสี่ ค่าชาร์จระหว่างทางราว 474 บาท ทางไกลแบบนี้ พักทุก 2 ชั่วโมงนะ |
 | 23–27 | การ์ดปิด: โลโก้ EVROUTE บนพื้น `#2f6bff` | ไม่ต้องกลัวไฟหมด ไม่อดตาย · (บรรทัด 2) ลองกับรถคุณ ลิงก์ใน bio | ไม่ต้องกลัวไฟหมด ไม่อดตาย มี EVROUTE เป็นเพื่อนร่วมทาง ลองกับรถคุณ ฟรี ลิงก์ใน bio |
 
 ### ปิดคลิป
 สโลแกน + "ลองกับรถคุณ ลิงก์ใน bio" · bio TikTok `https://evroute.info/?ref=tiktok-dec` · ถ้าลง Reels ใช้ bio IG `https://evroute.info/?ref=ig-dec`
+
+### ไฟล์ Reels (แยกจาก TikTok)
+- ใช้ **ไฟล์แม่** จากแอปตัดต่อ (วิธีถ่าย ข้อ 6) **ไม่มีเพลงจากคลังของ TikTok ไม่มีลายน้ำ TikTok** · ห้ามดาวน์โหลดคลิปจาก TikTok มาลงต่อ
+- เสียงพากย์ล้วน หรือใส่เพลงจากคลังเพลงของ Meta ตอนอัปโหลด
+- ภาพ ข้อความบนจอ เสียงพากย์ และแคปชันเหมือนฉบับ TikTok · ลิงก์ใน bio IG `?ref=ig-dec`
 
 ### แคปชัน (TikTok / Reels)
 > ขับ EV กลับบ้านอุบลฯ แวะชาร์จกี่ที่ กินข้าวตรงไหน? 🍜
@@ -105,13 +145,13 @@
 > ทางไกลแบบนี้ พักทุก 2 ชม. นะ
 > ลองกับรถคุณ ฟรี ไม่ต้องสมัคร ลิงก์ใน bio
 > ไม่ต้องกลัวไฟหมด ไม่อดตาย มี EVROUTE เป็นเพื่อนร่วมทาง
-> (BYD M6 ออกแบต 100% เสาร์ 06:00 · ค่าชาร์จไม่รวมไฟที่ชาร์จจากบ้านก่อนออก · ตัวเลขจากแผนวันที่ 23 พ.ย. 2569 · ตัวเลขจากแผนใน EVROUTE ใช้ประกอบการวางแผน ของจริงขึ้นกับการขับและสภาพถนน · เช็กสถานะสถานีในแอปผู้ให้บริการก่อนออกเดินทาง)
+> (BYD M6 ออกแบต 100% เสาร์ 06:00 · ค่าชาร์จไม่รวมไฟที่ชาร์จจากบ้านก่อนออก · ตัวเลขจากแผนใน EVROUTE (วางแผนวันที่ 23 พ.ย. 2569) ใช้ประกอบการวางแผน ของจริงขึ้นกับการขับและสภาพถนน · เช็กสถานะสถานีในแอปผู้ให้บริการก่อนออกเดินทาง)
 >
 > #EVROUTE #รถไฟฟ้า #EVไทย #ทริปรถไฟฟ้า #ชาร์จรถไฟฟ้า #BYDM6 #อุบลราชธานี
 
 ### หมายเหตุเฉพาะ T1
 - ไม่พูดวันที่ "5 ธ.ค." ในข้อความบนจอ เสียง และแคปชัน (ใช้ "เสาร์") หัวแผนในแอปจะขึ้น "ออก เสาร์ 5 ธ.ค. …" เอง ซึ่งเป็นข้อมูลแผน ไม่ต้องครอป แต่ไม่ซูม
-- ชื่อสถานีจุดที่ 2 แอปเขียนว่า "EV Station Pluz" ในข้อความบนจอและเสียงใช้แค่ "จุดที่ 2 กม. 366" ไม่ใส่ชื่อเครือข่าย
+- ชื่อสถานีจุดที่ 2 แอปเขียนว่า "EV Station Pluz" (บรรทัด กม. ต่อท้ายด้วย "PTT EV Station PluZ") **ปิดด้วยป้าย "จุดที่ 2 · กม. 366 · 🍜 มื้อกลางวัน" ตั้งแต่ตอนตัดต่อ** ข้อความบนจอและเสียงใช้แค่ "จุดที่ 2 กม. 366" ไม่ใส่ชื่อเครือข่าย · ปุ่ม "เปิดแอป EV Station PluZ: PluZ Happiness" และข้อความจองสีส้มต้องไม่อยู่ในเฟรม คลิปนี้จึงเอาไปดันใน A2 ได้
 
 ---
 
@@ -168,7 +208,7 @@
 
 ## T3 · "กลับบ้านอุบลฯ ขาไปแวะไหน ขากลับแวะไหน?" (R4 + R5) · ~30 วิ · 2 เวอร์ชัน
 
-**ช่องทาง:** (ก) TikTok ศ. 4 ธ.ค. 12:00 · (ข) โฆษณา Meta A1-home (Reels/Stories/Feed) · **มุม:** วางแผนขากลับไว้ด้วยเลย แล้วบันทึกแผนพร้อมวันเดินทาง · **เปิดแผน:** ลิงก์ R4 และ R5 "ไม่ใส่ ref" ใน routes.md
+**ช่องทาง:** (ก) TikTok ศ. 4 ธ.ค. 12:00 · (ข) โฆษณา Meta A1-home (Reels/Stories/Feed) **ไฟล์แยก ไม่มีแผนที่ ไม่มีเพลงจาก TikTok ไม่มีลายน้ำ** · **มุม:** วางแผนขากลับไว้ด้วยเลย แล้วบันทึกแผนพร้อมวันเดินทาง · **เปิดแผน:** ลิงก์ R4 และ R5 "ไม่ใส่ ref" ใน routes.md
 
 ### ตัวเลขที่ใช้ (routes.md · R4 / R5)
 
@@ -188,34 +228,43 @@
 
 | วิ | ภาพ (หน้าจอแอป / ต้องกดอะไร) | ข้อความบนจอ (≤8 คำ) | เสียงพากย์ |
 |---|---|---|---|
-| 0–3 | ผลแผน R4: แผนที่ เห็นเส้นทางกรุงเทพฯ (A) → อุบลฯ (B) และหมุดเขียว 1–2–3 (ไม่แตะแผนที่ ใช้การซูมตอนตัดต่อแทน) | กลับอุบลฯ ขาไปแวะไหน ขากลับแวะไหน? | กลับบ้านอุบลฯ ด้วยรถไฟฟ้า ขาไปแวะชาร์จที่ไหน ขากลับแวะที่ไหน? |
-| 3–7 | ผลแผน R4: หัวแผน "กรุงเทพฯ → ทุ่งศรีเมือง อุบลราชธานี · BYD M6 · แบต 100%" + หัวข้อ "แผนการเดินทาง · ชาร์จ 3 จุด" | ขาไป เสาร์: แวะชาร์จ 3 จุด · (บรรทัดเล็ก ล่าง ค้างถึง 20 วิ) ทางไกล พักทุก 2 ชม. | ขาไป ออกเสาร์หกโมงเช้า แวะชาร์จ 3 จุด |
-| 7–11 | เลื่อนไปจุดที่ 2 ซูมป้าย **"🍜 มื้อกลางวัน"** + "กม. 366" (เวอร์ชัน ข: ซูมให้ชื่อสถานีอยู่นอกเฟรม ดูหมายเหตุ) → ตัดไปการ์ดเส้นเวลา "ถึง … 16:14" | เที่ยงแวะ กม.366 🍜 ถึง 16:14 | มื้อเที่ยงแวะที่กิโลเมตร 366 มีร้านอาหาร ห้องน้ำ ถึงบ่ายสี่โมงสิบสี่ |
+| 0–3 | **(ก)** ผลแผน R4: แผนที่ เห็นเส้นทางกรุงเทพฯ (A) → อุบลฯ (B) และหมุดเขียว 1–2–3 (ไม่แตะแผนที่) · **ใช้ภาพแผนที่ทั้งกรอบ ถ้าซูมตอนตัดต่อ ห้ามซูมจนโลโก้ Google มุมซ้ายล่างหรือ "ข้อมูลแผนที่ ©2026 Google" มุมขวาล่างหลุดเฟรม** ข้อความฮุกห้ามทับสองมุมนี้ (วิธีถ่าย ข้อ 5) · **(ข) ไม่มีแผนที่:** การ์ดหัวแผน "กรุงเทพฯ → ทุ่งศรีเมือง อุบลราชธานี · BYD M6 · แบต 100% · ออก …" ขนาดตามจอ ไม่ซูม (บรรทัดวันออกในหัวแผนเป็นข้อมูลแผน ไม่ครอป แต่ห้ามวางข้อความฮุกทับ) | กลับอุบลฯ ขาไปแวะไหน ขากลับแวะไหน? | กลับบ้านอุบลฯ ด้วยรถไฟฟ้า ขาไปแวะชาร์จที่ไหน ขากลับแวะที่ไหน? |
+| 3–7 | ผลแผน R4: หัวแผน "กรุงเทพฯ → ทุ่งศรีเมือง อุบลราชธานี · BYD M6 · แบต 100%" + หัวข้อ "แผนการเดินทาง · ชาร์จ 3 จุด" · **การ์ดสีส้มเรื่องจอง** เหนือหัวข้อนี้ ครอปออกหรือปิดด้วยแถบทึบ (วิธีถ่าย ข้อ 4) | ขาไป เสาร์: แวะชาร์จ 3 จุด · (บรรทัดเล็ก ล่าง ค้างถึง 20 วิ) ทางไกล พักทุก 2 ชม. | ขาไป ออกเสาร์หกโมงเช้า แวะชาร์จ 3 จุด |
+| 7–11 | **ตัด** (ไม่เลื่อนผ่านจุดที่ 1) ไปการ์ดจุดที่ 2 · ปิดชื่อสถานีและบรรทัด กม. ด้วยป้าย **"จุดที่ 2 · กม. 366 · 🍜 มื้อกลางวัน"** แล้วซูมที่ป้าย · ข้อความจองสีส้มและปุ่ม "เปิดแอป …" อยู่นอกเฟรม · **(ข)** ครอปให้เห็นแค่ป้ายกับแถว "~56 นาที" (แถวร้านอยู่นอกเฟรม ดูหมายเหตุ) → ตัดไปการ์ดเส้นเวลา "ถึง … 16:14" | เที่ยงแวะ กม.366 🍜 ถึง 16:14 | มื้อเที่ยงแวะที่กิโลเมตร 366 มีร้านอาหาร ห้องน้ำ ถึงบ่ายสี่โมงสิบสี่ |
 | 11–13 | ผลแผน R5: หัวแผน "ทุ่งศรีเมือง อุบลราชธานี → กรุงเทพฯ · BYD M6 · แบต 80% · ออก จันทร์ … 08:00" | ขากลับ จันทร์ ออกแบต 80% | ขากลับวันจันทร์ ออกแปดโมง แบต 80 |
-| 13–20 | หัวข้อ "แผนการเดินทาง · ชาร์จ 3 จุด" → เลื่อนไปจุดที่ 2 ซูมป้าย **"🍜 มื้อกลางวัน"** + "กม. 297" → การ์ดเส้นเวลา "ถึง … 18:38" | แวะ 3 จุด · เที่ยงที่ กม.297 · (มุมล่างตัวเล็ก ช่วงที่ช่อง ฿666 อยู่ในเฟรม) ค่าไฟขากลับคิดแบบวันธรรมดา | แวะ 3 จุดเหมือนกัน มื้อเที่ยงที่กิโลเมตร 297 ถึงกรุงเทพฯ หกโมงเย็นสามสิบแปด |
+| 13–20 | หัวข้อ "แผนการเดินทาง · ชาร์จ 3 จุด" (การ์ดสีส้มเรื่องจองเหนือหัวข้อ ครอปออกหรือปิด) → **ตัด** ไปการ์ดจุดที่ 2 ปิดด้วยป้าย **"จุดที่ 2 · กม. 297 · 🍜 มื้อกลางวัน"** (ข้อความ "📅 จองได้ในแอป …" และปุ่ม "เปิดแอป …" อยู่นอกเฟรม · **(ข)** แถวร้านอยู่นอกเฟรมด้วย) → การ์ดเส้นเวลา "ถึง … 18:38" | แวะ 3 จุด · เที่ยงที่ กม.297 · (มุมล่างตัวเล็ก ช่วงที่ช่อง ฿666 อยู่ในเฟรม) ค่าไฟขากลับคิดแบบวันธรรมดา | แวะ 3 จุดเหมือนกัน มื้อเที่ยงที่กิโลเมตร 297 ถึงกรุงเทพฯ หกโมงเย็นสามสิบแปด |
 | 20–25 | ยังอยู่ที่ผล R5 กดปุ่ม **"☆ บันทึกแผนนี้"** (ปุ่มคู่กับ "คัดลอกลิงก์แผนนี้") → ปุ่มเปลี่ยนเป็น **"★ บันทึกแล้ว"** และมีแถบ "บันทึกในเครื่องนี้แล้ว · ใส่อีเมลเพื่อเก็บไว้ถาวร" · **ครอปให้เห็นแค่แถวปุ่มนี้** ห้ามเลื่อนไปการ์ด "ถึงปลายทางแล้ว ทำอะไรต่อ" (มีข้อความเรื่องน้ำท่วมหลังบันทึก) · ห้ามกดปุ่ม Google Maps ที่อยู่เหนือแถวนี้ | บันทึกไว้ แอปเช็กสถานีให้ก่อนออก | กดบันทึกแผนไว้เลย ช่วง 3 วันก่อนออก ถ้าสถานีที่จะแวะมีคนแจ้งปัญหา หน้าแรกจะเตือน |
 | 25–30 | การ์ดปิด: โลโก้ EVROUTE บนพื้น `#2f6bff` | **(ก)** ไม่ต้องกลัวไฟหมด ไม่อดตาย + วางแผนขากลับด้วย ลิงก์ใน bio · **(ข)** ไม่ต้องกลัวไฟหมด ไม่อดตาย + วางแผนฟรี กดปุ่มด้านล่าง | **(ก)** วางแผนขากลับไว้ด้วยเลย ฟรี ลิงก์ใน bio ไม่ต้องกลัวไฟหมด ไม่อดตาย มี EVROUTE เป็นเพื่อนร่วมทาง · **(ข)** วางแผนทริปของคุณฟรี ไม่ต้องสมัคร กดปุ่มด้านล่างได้เลย ไม่ต้องกลัวไฟหมด ไม่อดตาย มี EVROUTE เป็นเพื่อนร่วมทาง |
 
 ### ปิดคลิป
 - **(ก) TikTok:** สโลแกน + "ลิงก์ใน bio" · bio `https://evroute.info/?ref=tiktok-dec`
-- **(ข) โฆษณา Meta A1-home:** สโลแกน + "กดปุ่มด้านล่าง" · ปุ่ม "เรียนรู้เพิ่มเติม" ลิงก์ `https://evroute.info/?ref=fb-ads-dec-home` · ข้อความโฆษณาใช้ A1-home จาก `posts.md` (content-writer)
+- **(ข) โฆษณา Meta A1-home:** สโลแกน + "กดปุ่มด้านล่าง" · ปุ่ม "เรียนรู้เพิ่มเติม" ลิงก์ `https://evroute.info/?ref=fb-ads-dec-home` · ข้อความโฆษณาใช้ A1-home จาก `posts.md` (content-writer) · ไฟล์แม่ของ (ข) เอง (วิธีถ่าย ข้อ 6) เสียงพากย์ล้วนหรือเพลงจากคลังของ Meta ไม่มีลายน้ำ TikTok
 
 ### แคปชัน (ก) TikTok
 > กลับบ้านอุบลฯ ด้วย EV ขาไปแวะไหน ขากลับแวะไหน?
 > ขาไป เสาร์ 06:00 แบต 100%: 636 กม. แวะชาร์จ 3 จุด เที่ยงแวะ กม. 366 🍜 ถึง 16:14 · ค่าชาร์จระหว่างทางประมาณ ฿474
-> ขากลับ จันทร์ 08:00 แบต 80%: 637 กม. แวะชาร์จ 3 จุด เที่ยงแวะ กม. 297 ถึง 18:38 · ค่าชาร์จระหว่างทางประมาณ ฿666 (แอปคิดค่าไฟวันจันทร์แบบวันธรรมดา On-Peak ยังไม่รู้จักวันหยุดราชการ)
+> ขากลับ จันทร์ 08:00 แบต 80%: 637 กม. แวะชาร์จ 3 จุด เที่ยงแวะ กม. 297 ถึง 18:38 · ค่าชาร์จระหว่างทางประมาณ ฿666 (แอปคิดค่าไฟตามวันในสัปดาห์ วันจันทร์คิดเป็นราคาวันธรรมดา)
 > ขาไป 10 ชม. 14 นาที · ขากลับ 10 ชม. 38 นาที (รวมเวลาชาร์จและกินข้าวแล้ว) พักทุก 2 ชม. นะ
 > วางแผนขากลับไว้ด้วยเลย บันทึกแผนพร้อมวันเดินทาง ช่วง 3 วันก่อนออก ถ้าสถานีที่จะแวะมีคนแจ้งปัญหา หน้าแรกจะเตือน 🔔
 > ฟรี ไม่ต้องสมัคร ลิงก์ใน bio
 > ไม่ต้องกลัวไฟหมด ไม่อดตาย มี EVROUTE เป็นเพื่อนร่วมทาง
-> (BYD M6 · ค่าชาร์จไม่รวมไฟที่ชาร์จจากบ้านหรือที่พักก่อนออก · ตัวเลขจากแผนวันที่ 23 พ.ย. 2569 · ตัวเลขจากแผนใน EVROUTE ใช้ประกอบการวางแผน ของจริงขึ้นกับการขับและสภาพถนน · เช็กสถานะสถานีในแอปผู้ให้บริการก่อนออกเดินทาง)
+> (BYD M6 · ค่าชาร์จไม่รวมไฟที่ชาร์จจากบ้านหรือที่พักก่อนออก · ตัวเลขจากแผนใน EVROUTE (วางแผนวันที่ 23 พ.ย. 2569) ใช้ประกอบการวางแผน ของจริงขึ้นกับการขับและสภาพถนน · เช็กสถานะสถานีในแอปผู้ให้บริการก่อนออกเดินทาง)
 >
 > #EVROUTE #รถไฟฟ้า #EVไทย #ทริปรถไฟฟ้า #ชาร์จรถไฟฟ้า #BYDM6 #อุบลราชธานี
 
+ถ้าเจ้าของยืนยันมติ ครม. ว่า จ. 7 ธ.ค. เป็นวันหยุดชดเชยแล้ว ค่อยพิจารณาเติมว่า "แอปยังไม่รู้จักวันหยุดราชการ" และส่ง fact-checker ตรวจใหม่
+
 ### หมายเหตุเฉพาะ T3
 - **ข้อความเล็กบนจอที่ต้องมีทั้ง 2 เวอร์ชัน** (เวอร์ชัน ข ข้อความโฆษณาสั้น คนดูอาจไม่เห็นแคปชัน): "ตัวเลขจากแผนวันที่ 23 พ.ย. 2569" ตลอดช่วงที่มีตัวเลข · "ทางไกล พักทุก 2 ชม." ช่วง 3–20 วิ · "ค่าไฟขากลับคิดแบบวันธรรมดา" ช่วงที่ช่อง ฿666 อยู่ในเฟรม
-- **เวอร์ชัน ข (โฆษณา):** `docs/marketing.md` ห้ามใช้ชื่อ PTT / PluZ ในภาพโฆษณาแบบที่ดูเหมือนเขาร่วมทำ ช็อต 7–11 และ 13–20 ให้ซูมที่ป้าย "🍜 มื้อกลางวัน" + "กม." ให้ชื่อสถานีอยู่นอกเฟรมหรือเห็นแค่ผ่าน ๆ และไม่ให้ปุ่ม "เปิดแอป EV Station PluZ…" / "เปิดแอป EleXA" อยู่กลางเฟรม (fact-checker ตัดสินขั้นสุดท้าย)
-- ใน VO และข้อความบนจอใช้ "เสาร์" / "จันทร์" ไม่พูด "5 ธ.ค." และไม่บอกว่า 7 ธ.ค. เป็นวันหยุด (plan.md หัวข้อ 7 ยังรอเช็กประกาศวันหยุดชดเชย)
+- **ทั้ง 2 เวอร์ชัน:** ชื่อสถานี บรรทัด กม. ที่มีชื่อเครือข่าย ข้อความจอง และปุ่ม "เปิดแอป …" ปิดตั้งแต่ตอนตัดต่อ (วิธีถ่าย ข้อ 4) ป้าย "จุดที่ 2 · กม. 366" / "จุดที่ 2 · กม. 297" · ช่วงที่มีป้ายห้ามเลื่อนจอ ให้ตัด
+- **เวอร์ชัน ก ช็อตแผนที่ 0–3:** เครดิต Google ทั้งสองมุมล่างต้องอยู่ในเฟรมตลอด ห้ามครอป เบลอ หรือวางข้อความทับ (วิธีถ่าย ข้อ 5) เช็กในหน้าตัวอย่าง TikTok ว่าปุ่มด้านขวาไม่ทับมุมขวาล่าง
+- **เวอร์ชัน ข (โฆษณา Meta):**
+  - **ไม่มีแผนที่สักเฟรม** (คำตัดสินข้อ 5) ช็อต 0–3 ใช้การ์ดหัวแผนแทน ถ้าอยากใส่แผนที่กลับ ต้องให้ทีมพัฒนาตรวจข้อกำหนดของ Google Maps Platform เรื่องใช้ภาพแผนที่ในโฆษณาก่อน · ช็อต 20–25 ปุ่ม "เปิดเส้นทางทั้งหมดใน Google Maps" ต้องอยู่นอกเฟรม
+  - ไม่มีชื่อเครือข่าย ปุ่ม "เปิดแอป …" หรือข้อความจองสักเฟรม (docs/marketing.md หัวข้อ 5 · คำตัดสินข้อ 3)
+  - **แถวร้านในการ์ดจุดแวะครอปออก** (R4 จุด 2 มี "คาเฟ่ อเมซอน · 7-Eleven" · R5 จุด 2 มี "Punthai Coffee · Max Mart" บางชื่อน่าจะเป็นแบรนด์ในเครือ OR / PTT ยังไม่มีคำตัดสิน ใช้ค่าที่ปลอดภัยกว่าไว้ก่อน) เสียงพากย์ "มีร้านอาหาร ห้องน้ำ" ยังใช้ได้ เพราะตรงกับ routes.md
+  - เสียงพากย์ล้วนหรือเพลงจากคลังของ Meta · ไม่มีลายน้ำ TikTok (วิธีถ่าย ข้อ 6)
+  - ยิงได้หลังผ่านประตูข้อ 2 (plan.md หัวข้อ 7) และใช้คู่กับข้อความ A1-home เท่านั้น
+- ใน VO ข้อความบนจอ และแคปชัน ใช้ "เสาร์" / "จันทร์" ไม่พูด "5 ธ.ค." และไม่เขียนหรือบอกเป็นนัยว่า 7 ธ.ค. เป็นวันหยุด (คำตัดสินข้อ 2 ท้าย plan.md: ยังไม่เจอมติ ครม.) · แคปชันเรื่องค่าไฟขากลับใช้ "แอปคิดค่าไฟตามวันในสัปดาห์" · ข้อความเล็กบนจอ "ค่าไฟขากลับคิดแบบวันธรรมดา" คงเดิม (ด่านตรวจรอบ 1 ไม่ได้ทักท้วง)
 - บันทึกแผน **R5** (ขากลับ) ไม่ใช่ R4 เพราะเป็นข้อความหลักของคลิป "วางแผนขากลับไว้ด้วยเลย"
 - ไม่ใช้ปุ่ม "↩ วางแผนขากลับ" ในคลิป ปุ่มนี้เริ่มด้วยแบตที่ถึงปลายทาง (20%) และออกตอนนี้ ตัวเลขจะไม่ตรงกับ R5 (แบต 80% จันทร์ 08:00)
 - หลังอัดเสร็จ ถ้าไม่ได้เดินทางจริง ลบแผนที่บันทึกไว้ออกจากเครื่อง

diff --git a/marketing/2026-12-longweekend/posts.md b/marketing/2026-12-longweekend/posts.md
@@ -314,7 +314,7 @@ R1 ไม่มีจุดตรงมื้อกลางวัน (มีแ
 
 - **ข้อความหลัก**
   ```text
-  หนาวนี้ขับ EV เที่ยวใกล้ ๆ กรุงเทพฯ ต้องแวะชาร์จกี่ที่? แผนตัวอย่าง: ภูทับเบิก 426 กม. (BYD Sealion 7) แวะชาร์จ 1 จุด · วังน้ำเขียว 237 กม. (BYD Atto 1) แวะชาร์จ 1 จุด
+  หนาวนี้ขับ EV เที่ยวแบบขับวันเดียวถึง ต้องแวะชาร์จกี่ที่? แผนตัวอย่าง: ภูทับเบิก 426 กม. (BYD Sealion 7) แวะชาร์จ 1 จุด · วังน้ำเขียว 237 กม. (BYD Atto 1) แวะชาร์จ 1 จุด
   ทางขึ้นภูทับเบิกชัน ขับช้า ๆ เผื่อแบตไว้ แอปยังไม่คิดความชันของถนน แบตจริงอาจเหลือน้อยกว่าในแผน · ใส่รุ่นรถของคุณเองได้ ฟรี ไม่ต้องสมัคร
   ตัวเลขจากแผนใน EVROUTE (วางแผนวันที่ 23 พ.ย. 2569) ใช้ประกอบการวางแผน ของจริงขึ้นกับการขับและสภาพถนน
   ```
